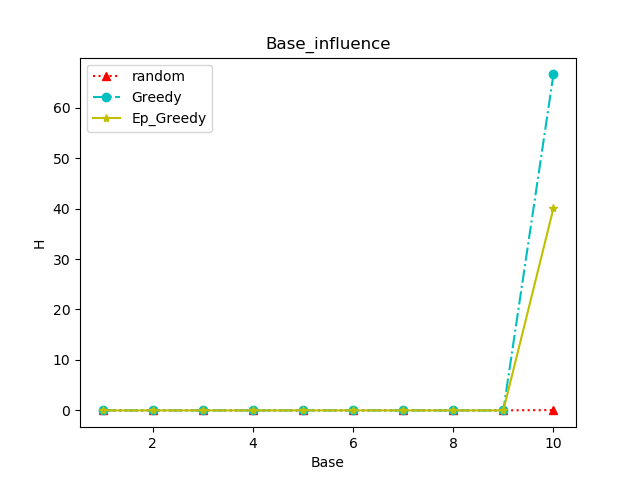
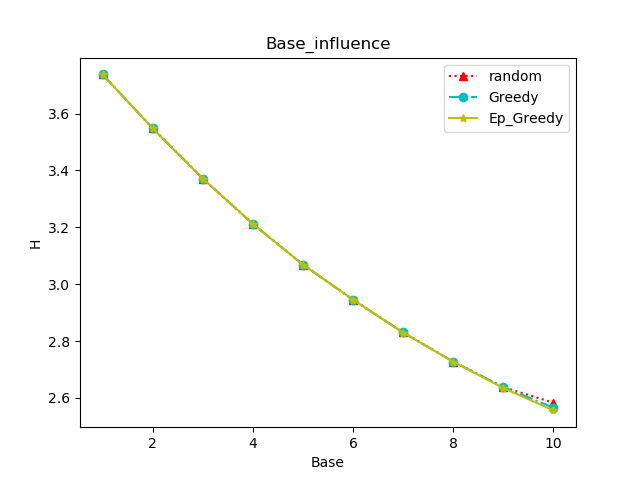
贪心算法

diff --git a/.idea/Martix_def.py b/.idea/Martix_def.py
@@ -9,7 +9,7 @@ import seaborn as sns
 #K = 100              #可用基站频点
 #N = 70             #申请用户数量
 EPXILONG = 0.1      #设置ε值
-T = 200              #设置测试大小
+T = 100              #设置测试大小
 
 def Location_matrix_df(n,m,k):
     Location_matrix = np.zeros(shape=(n,m,k),dtype=int)
@@ -253,50 +253,50 @@ def main():
     N = 100
     K = 10
     for m in range(T):
-        M = m + 1
+        M = m + 3
         r1, r2, r3 = run_process(N, M, K)
-        r12[k] = r1
-        r22[k] = r2
-        r32[k] = r3
+        r12[m] = r1
+        r22[m] = r2
+        r32[m] = r3
 
     # 申请人数实验
     M = 4
     K = 50
     for n in range(T):
-        N = n + 1
+        N = n + 3
         r1, r2, r3 = run_process(N, M, K)
-        r13[k] = r1
-        r23[k] = r2
-        r33[k] = r3
+        r13[n] = r1
+        r23[n] = r2
+        r33[n] = r3
 
 
     k = np.arange(1,T+1)
-    plt.plot(k,r11,color='r',linestyle=':',marker='^',label='random')
-    plt.plot(k,r21,color='c',linestyle='-.',marker='o',label='Greedy')
-    plt.plot(k,r31,color='y',linestyle='-',marker='*',label='Ep_Greedy')
+    plt.plot(k,np.log(r11+1e-5),color='r',linestyle=':',marker='^',label='random')
+    plt.plot(k,np.log(r21+1e-5),color='c',linestyle='-.',marker='o',label='Greedy')
+    plt.plot(k,np.log(r31+1e-5),color='y',linestyle='-',marker='*',label='Ep_Greedy')
     plt.legend()
     plt.xlabel("Frequence")
     plt.ylabel("H")
     plt.title("Frequence_influence")
-    plt.savefig("200F")
+    plt.savefig("100F")
     plt.figure()
-    plt.plot(k, r12,color='r',linestyle=':',marker='^',label='random')
-    plt.plot(k, r22, color='c',linestyle='-.',marker='o',label='Greedy')
-    plt.plot(k, r32,color='y',linestyle='-',marker='*',label='Ep_Greedy')
+    plt.plot(k, np.log(r12+1e-5),color='r',linestyle=':',marker='^',label='random')
+    plt.plot(k, np.log(r22+1e-5), color='c',linestyle='-.',marker='o',label='Greedy')
+    plt.plot(k, np.log(r32+1e-5),color='y',linestyle='-',marker='*',label='Ep_Greedy')
     plt.legend()
     plt.xlabel("Base")
     plt.ylabel("H")
     plt.title("Base_influence")
-    plt.savefig("200B")
+    plt.savefig("100B")
     plt.figure()
-    plt.plot(k, r13,color='r',linestyle=':',marker='^',label='random')
-    plt.plot(k, r23, color='c',linestyle='-.',marker='o',label='Greedy')
-    plt.plot(k, r33, color='y',linestyle='-',marker='*',label='Ep_Greedy')
+    plt.plot(k, np.log(r13+1e-5),color='r',linestyle=':',marker='^',label='random')
+    plt.plot(k, np.log(r23+1e-5), color='c',linestyle='-.',marker='o',label='Greedy')
+    plt.plot(k, np.log(r33+1e-5), color='y',linestyle='-',marker='*',label='Ep_Greedy')
     plt.xlabel("Applaction")
     plt.ylabel("H")
     plt.title("Users_influence")
     plt.legend()
-    plt.savefig("200U")
+    plt.savefig("100U")
     plt.show()
 
 
